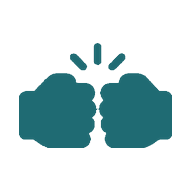
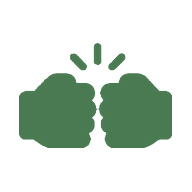
Move the brand to pitch green and terracotta so organization and Join feel like sport, not paper.

Changed region(s): [[0.0938, 0.375, 0.9062, 0.7812], [0.3438, 0.2188, 0.5312, 0.375], [0.5625, 0.2812, 0.6562, 0.375]]

diff --git a/constants/theme.ts b/constants/theme.ts
@@ -1,25 +1,25 @@
 export const theme = {
   colors: {
-    // ToBump CGP v2 — sand + deep teal
-    primary: '#1F6B73',
-    primaryDark: '#154F55',
-    primarySoft: '#D3E0DE',
-    primaryMuted: '#B7CBC9',
-    accent: '#C96A4A',
-    background: '#E4DCCE',
-    surface: '#EFE8DB',
-    surfaceElevated: '#F6F0E4',
+    // ToBump CGP v3 — Igrišče: organizacija (trava) + gibanje (terakota)
+    primary: '#4A7A52',
+    primaryDark: '#355A3C',
+    primarySoft: '#DCE6DC',
+    primaryMuted: '#B7C9B8',
+    accent: '#C45C38',
+    background: '#E5E8E1',
+    surface: '#F3F5F0',
+    surfaceElevated: '#F7F8F5',
     text: '#1A1F1E',
-    textMuted: '#6B6560',
-    border: '#D4CBBA',
-    borderStrong: '#C4B8A4',
+    textMuted: '#5F6861',
+    border: '#D0D6CC',
+    borderStrong: '#B8C2B6',
     danger: '#C0392B',
     dangerSoft: '#F3E4DE',
     success: '#3E8A68',
     warning: '#C47A1A',
     warningSoft: '#F0E4C8',
-    infoSoft: '#D3E0DE',
-    info: '#154F55',
+    infoSoft: '#DCE6DC',
+    info: '#355A3C',
   },
   radius: {
     sm: 10,
@@ -35,7 +35,7 @@ export const theme = {
   },
   shadow: {
     card: {
-      shadowColor: '#154F55',
+      shadowColor: '#355A3C',
       shadowOpacity: 0.08,
       shadowRadius: 12,
       shadowOffset: { width: 0, height: 4 },

diff --git a/constants/Colors.ts b/constants/Colors.ts
@@ -1,12 +1,12 @@
-const tintColorLight = '#1F6B73';
+const tintColorLight = '#4A7A52';
 const tintColorDark = '#fff';
 
 export default {
   light: {
     text: '#1A1F1E',
-    background: '#E4DCCE',
+    background: '#E5E8E1',
     tint: tintColorLight,
-    tabIconDefault: '#6B6560',
+    tabIconDefault: '#5F6861',
     tabIconSelected: tintColorLight,
   },
   dark: {

diff --git a/components/ui/index.tsx b/components/ui/index.tsx
@@ -228,7 +228,7 @@ const styles = StyleSheet.create({
     gap: 8,
   },
   btnPrimary: {
-    backgroundColor: theme.colors.primary,
+    backgroundColor: theme.colors.accent,
   },
   btnSecondary: {
     backgroundColor: theme.colors.primarySoft,

diff --git a/app/+html.tsx b/app/+html.tsx
@@ -30,7 +30,7 @@ export default function Root({ children }: { children: ReactNode }) {
 
 const responsiveBackground = `
 body {
-  background-color: #E4DCCE;
+  background-color: #E5E8E1;
 }
 @media (prefers-color-scheme: dark) {
   body {

diff --git a/app/+not-found.tsx b/app/+not-found.tsx
@@ -35,6 +35,6 @@ const styles = StyleSheet.create({
   },
   linkText: {
     fontSize: 14,
-    color: '#1F6B73',
+    color: '#4A7A52',
   },
 });

diff --git a/assets/brand/README.md b/assets/brand/README.md
@@ -1,9 +1,13 @@
-# ToBump — celostna grafična podoba (v2)
+# ToBump — celostna grafična podoba (v3, Igrišče)
 
 ## Ideja
 ToBump = povezovanje prijateljev okoli aktivnosti. Fist-bump = dogovor, energija, skupaj.
 
-UI je **pesek**, akcija je **globok teal**. Teal je samo na gumbih, aktivnih chipih, ikonah in znamki — ne kot ozadje celotnega zaslona.
+Dve vlogi:
+- **Organizacija** = travnata zelena (navi, chipi, znamka)
+- **Gibanje / Join** = terakota (glavni CTA)
+
+Ozadje je žajbljev kamen, ne belina in ne kava.
 
 ## Logo
 | Različica | Datoteka | Uporaba |
@@ -17,22 +21,22 @@ UI je **pesek**, akcija je **globok teal**. Teal je samo na gumbih, aktivnih chi
 ## Barve
 | Vloga | Hex | Uporaba |
 |-------|-----|---------|
-| Primary | `#1F6B73` | gumbi, aktivni chipi, znamka |
-| Primary dark | `#154F55` | pressed / heading accent |
-| Primary soft | `#D3E0DE` | izbrano stanje, mehki paneli |
-| Primary muted | `#B7CBC9` | robovi secondary gumbov |
-| Accent | `#C96A4A` | redki CTA poudarki |
+| Primary | `#4A7A52` | navi, aktivni chipi, znamka |
+| Primary dark | `#355A3C` | pressed / heading accent |
+| Primary soft | `#DCE6DC` | izbrano stanje, mehki paneli |
+| Primary muted | `#B7C9B8` | robovi secondary gumbov |
+| Accent | `#C45C38` | Join, glavni gumbi, CTA |
 | Text | `#1A1F1E` | glavno besedilo |
-| Muted | `#6B6560` | sekundarno |
-| Background | `#E4DCCE` | app ozadje |
-| Surface | `#EFE8DB` | kartice |
-| Surface elevated | `#F6F0E4` | header, modal |
-| Border | `#D4CBBA` | ločnice |
-| Success | `#3E8A68` | uspeh / join |
+| Muted | `#5F6861` | sekundarno |
+| Background | `#E5E8E1` | app ozadje |
+| Surface | `#F3F5F0` | kartice |
+| Surface elevated | `#F7F8F5` | header, modal |
+| Border | `#D0D6CC` | ločnice |
+| Success | `#3E8A68` | uspeh |
 
 ## Tipografija
 - UI: obstoječi sistemni / Expo fonti (zaenkrat)
 - Wordmark občutek: zaobljen geometric sans, medium weight, `Tobump` (T velika)
 
 ## Ton
-Prijateljski, aktiven, umirjen za dolgo branje — papir, ne belina; teal kot poudarek, ne poplava.
+Ekipa, park, “a greš” — urejeno dovolj za sezname, toplo dovolj za pridružitev.
